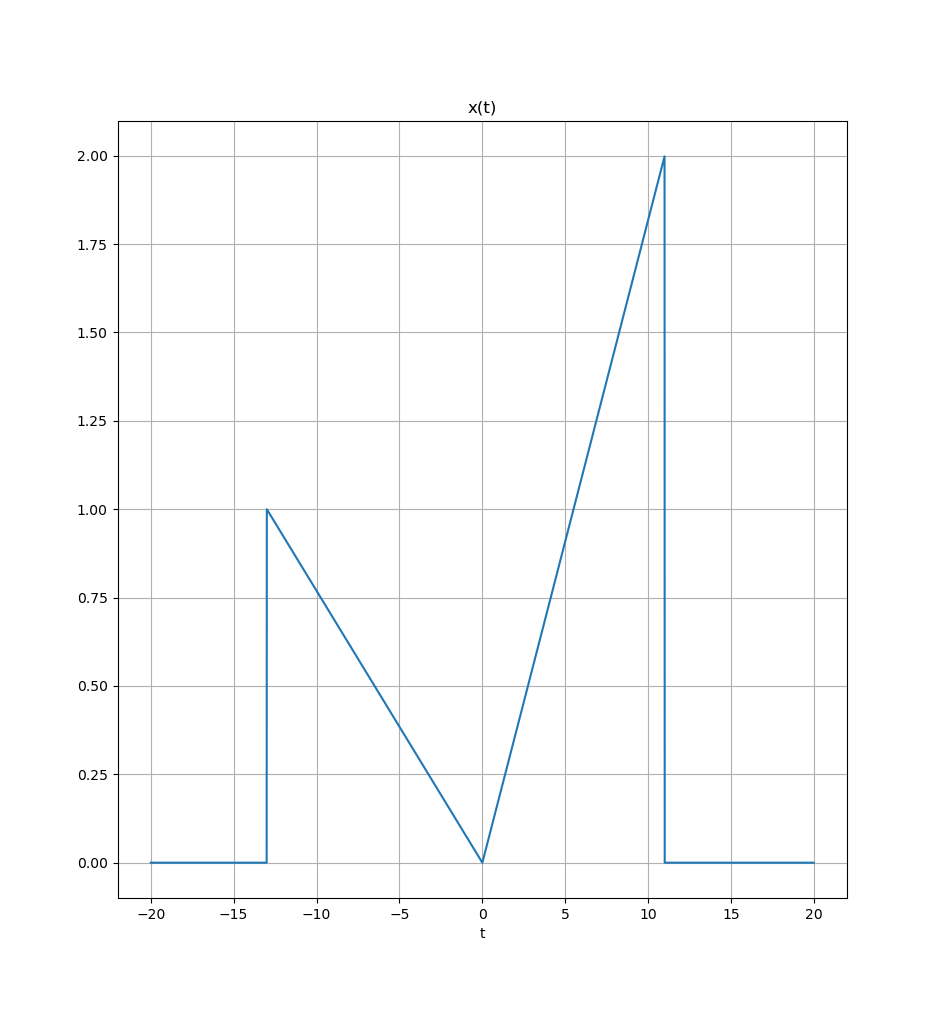
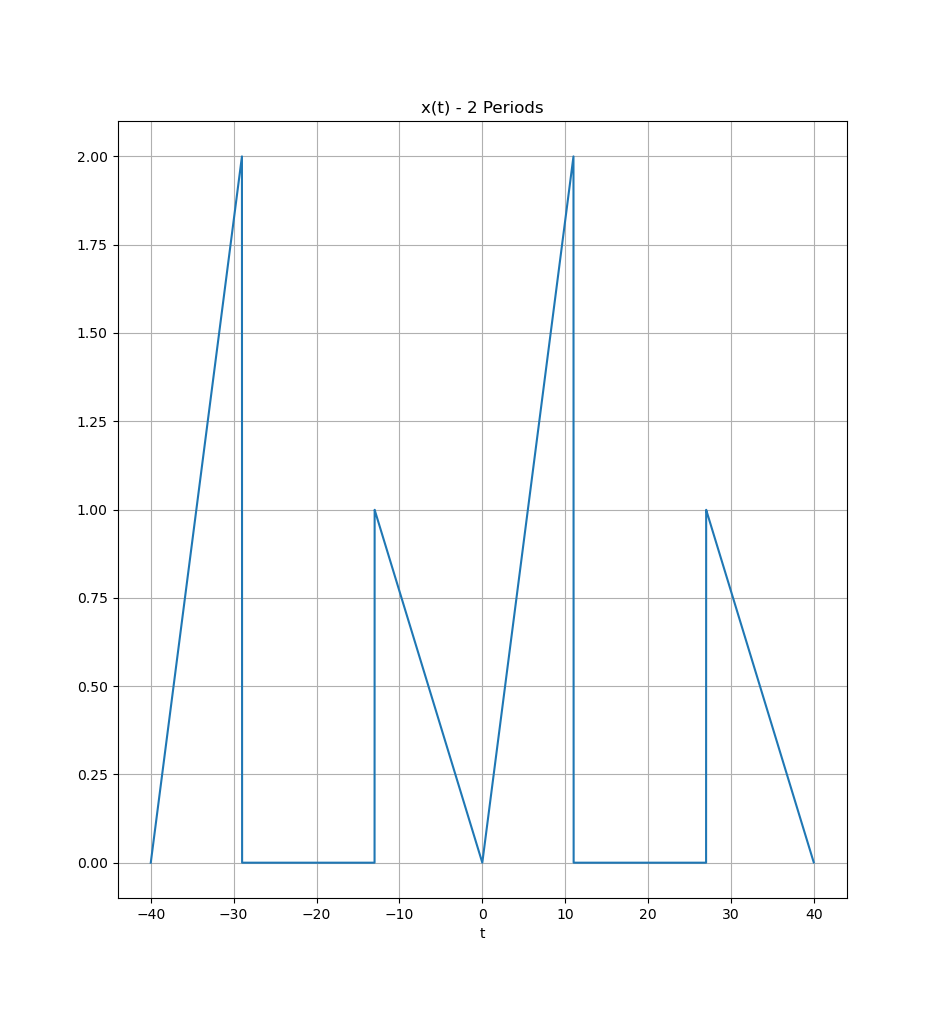
SDD 301 update

diff --git a/Documentation/Design/SDD/SDD301.md b/Documentation/Design/SDD/SDD301.md
@@ -29,28 +29,32 @@ In MATLAB
 ```matlab
 A = 1;
 B = 3;
+T = 40;
 
-t = -20:0.01:20;
+t = -40:0.01:40;  % 2 periods
+
+% Map t to one period [-20, 20)
+t_mod = mod(t + 20, T) - 20;
 
 x = zeros(size(t));
 
-x(t >= -(B+10) & t < 0)       = -t(t >= -(B+10) & t < 0) / (B+10);
-x(t >= 0 & t < (A+10))        = 2*t(t >= 0 & t < (A+10)) / (A+10);
+x(t_mod >= -(B+10) & t_mod < 0)      = -t_mod(t_mod >= -(B+10) & t_mod < 0) / (B+10);
+x(t_mod >= 0 & t_mod < (A+10))       = 2*t_mod(t_mod >= 0 & t_mod < (A+10)) / (A+10);
 
 plot(t, x);
-title('x(t)');
+title('x(t) - 2 Periods');
 xlabel('t');
 grid on;
 ```
 ![Alt text](./Artifacts/SDD_301_Artifact_1.png "Figure 1")
 
 ### Signal Characteristics
-- **Period:** T = 40 seconds (theoretical)
-- **Fundamental frequency:** f₀ = 1/T = 0.025 Hz (theoretical)
+- **Period:** T = 40 units of time
+- **Fundamental frequency:** f₀ = 1/T = 0.025/units Hz
 - **Piecewise linear:** Two ramp segments with different slopes
 - **DC component:** Non-zero (signal not symmetric about zero)
 
-### Transformed Signal
+## Transformed Signal
 The output signal is defined as:
 
 $$
@@ -66,34 +70,11 @@ Where:
 The truncated Fourier series approximation:
 
 $$
-y_{K}(t) = \sum_{k=-K}^{K} Y_k e^{jk\omega_{0} t}
+y_{K}(t) = \sum_{k=-K}^{K} Y_{k} e^{jk\omega_{0} t}
 $$
 
-For real signals, this can be rewritten as:
 
-$$
-y_{K}(t) = Y_0 + 2\sum_{k=1}^{K} |Y_{k}| \cos(k\omega_{0} t + \phi_{k})
-$$
-
-Or equivalently:
-
-$$
-y_{K}(t) = a_{0} + \sum_{k=1}^{K} [a_{k} \cos(k\omega _{0} t) + b_{k} \sin(k \omega_{0} t)]
-$$
-
----
-
-## Part (a): Signal Visualization
-
-### MATLAB Implementation
-```matlab
-
-
-```
-
----
-
-## Part (b): Scaling Constants c₁ and c₂
+## Scaling Constants c₁ and c₂
 
 ### Objective
 Maximize output amplitude while preventing saturation on 12-bit DAC (0-4095 range).
@@ -102,11 +83,11 @@ Maximize output amplitude while preventing saturation on 12-bit DAC (0-4095 rang
 The K22F DAC requires:
 - **Output range:** 0 to 4095 (12-bit unsigned)
 - **Voltage range:** 0 to 3.3V
-- **Recommended buffer:** ~10% headroom to prevent clipping
+- **Buffer:** ~10% headroom to prevent clipping
 
 **DC offset (c₁):**
 ```
-c₁ = 4095/2 = 2047.5 ≈ 2048
+c₁ = 4095/2 = 2047.5 = ~2048
 ```
 Centers the signal at mid-scale.
 
@@ -119,22 +100,21 @@ A_pp = max(x) - min(x)
 
 With 10% headroom:
 ```
-c₂ = 0.9 × (4095/2) / max(|x(t)|)
-c₂ ≈ 1840 / max(|x(t)|)
+c₂ = 0.9 * (4095/2) / max(|x(t)|)
+c₂ = ~1842 / max(|x(t)|)
+c₂ = 1842 / 2 = 921
 ```
 
 **Result:**
 - c₁ = 2048
-- c₂ = [CALCULATE BASED ON YOUR A, B VALUES]
+- c₂ = 921
 
----
-
-## Part (c): Frequency Scaling c₃
+## Frequency Scaling c₃
 
 ### Constraints
 - **Sample rate:** Fs = 10 kHz
 - **Nyquist frequency:** Fs/2 = 5 kHz
-- **Signal quality:** Must maintain acceptable waveform for K ≤ 10
+- **Signal quality:** Must maintain acceptable waveform for K less than or eqaul to 10
 
 ### Analysis
 The highest frequency component in yK(t) is:
@@ -144,9 +124,9 @@ f_max = K × f₀ × c₃
 
 For adequate reconstruction with K=10 harmonics, we need significant margin below Nyquist:
 ```
-10 × f₀ × c₃ < 0.8 × (Fs/2)  [80% of Nyquist as safety margin]
-10 × (1/40) × c₃ < 4000
-c₃ < 16000
+10 × f₀ × c₃ < 0.9 × (Fs/2) [10% buffer]
+10 × (1/40) × c₃ < 4500
+c₃ < 18000
 ```
 
 However, for better signal quality with K=1 (fundamental only), we want the base frequency high enough to be audible/visible:
@@ -157,16 +137,23 @@ c₃ > 4000
 
 **Recommended value:**
 ```
-c₃ = 8000-12000  [adjust based on MATLAB testing]
+c₃ = 4000-18000  [adjust based on MATLAB testing]
 ```
+* Using c₃ = 16500 [so theres a fair margin]
 
+```
+>>> 16500 / 40
+412.5
+>>> 412.5 * 10
+4125.0
+```
 This gives:
-- Fundamental: 200-300 Hz (K=1)
-- 10th harmonic: 2-3 kHz (K=10)
+- Fundamental: 412.5 Hz (K=1)
+- 10th harmonic: 4.125 kHz (K=10)
 
 ---
 
-## Part (d): Fourier Series Coefficients
+## Fourier Series Coefficients
 
 ### Derivation
 For a periodic signal with period T, the Fourier series coefficients are:
@@ -178,6 +165,7 @@ $$
 Since y(t) = c₁ + c₂x(c₃t), and x(t) is piecewise linear:
 
 **DC component (k=0):**
+
 $$
 Y_0 = c_1 + \frac{c_2}{T} \int_{0}^{T} x(c_3 t) dt
 $$
@@ -185,12 +173,44 @@ $$
 **Harmonic components (k≠0):**
 
 For the piecewise segments, integration by parts:
-$$
-\int t e^{-j\omega t} dt = \frac{t}{-j\omega} e^{-j\omega t} - \frac{1}{-j\omega} \int e^{-j\omega t} dt
-$$
 
 $$
+\int t e^{-j\omega t} dt = \frac{t}{-j\omega} e^{-j\omega t} - \frac{1}{-j\omega} \int e^{-j\omega t} dt\\
 = \frac{-jt}{\omega} e^{-j\omega t} + \frac{1}{\omega^2} e^{-j\omega t}
 $$
 
+
+```python
+on main ❮ python
+Python 3.14.2 (main, Dec 10 2025, 20:09:47) [GCC 14.2.1 20250405] on linux
+Type "help", "copyright", "credits" or "license" for more information.
+>>> import dsp_sim_utils as s
+>>> A = 1
+>>> B = 3
+>>> def x(t):
+...     if -(B+10) <= t < 0:
+...         return -t / (B+10)
+...     elif 0 <= t < (A+10):
+...         return 2*t / (A+10)
+...     else:
+...         return 0
+...
+>>> s.find_fft_k(40, x, 10)
+array([ 4.37500000e-01+0.j        ,  1.29837206e-01-0.09004759j,
+       -2.34354926e-01-0.10612265j, -1.14120681e-01+0.01265463j,
+        7.60403684e-02+0.07454009j,  4.60652343e-03-0.0299229j ,
+       -5.93476414e-02-0.05293962j, -4.36936105e-04+0.0473512j ,
+        2.19557396e-02+0.02493691j, -7.12110187e-03-0.0514814j ,
+       -1.85370914e-02+0.0026216j ])
+>>> 12 + (13/2)
+18.5
+>>> 18.5/40
+0.4625
+>>> (12 + (11/2))
+17.5
+>>> (12 + (11/2)) / 40
+0.4375
+>>>
+```
+refer to `../../Simulation/dsp_sim_utils.py` for functions. (I wrote them myself).
 
